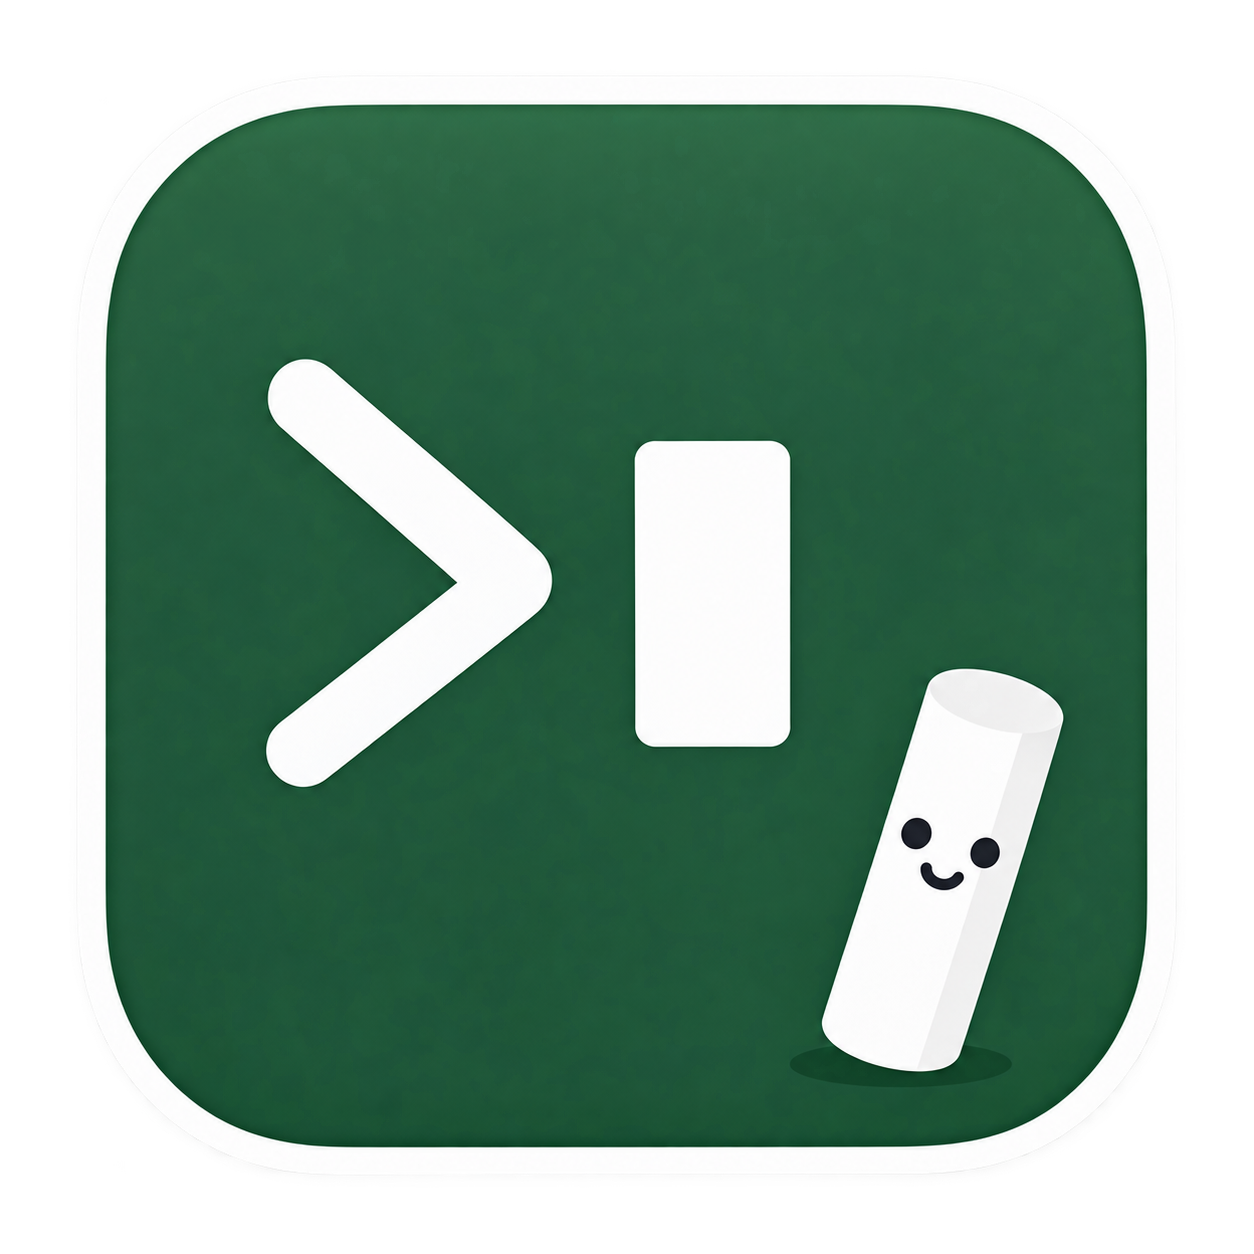
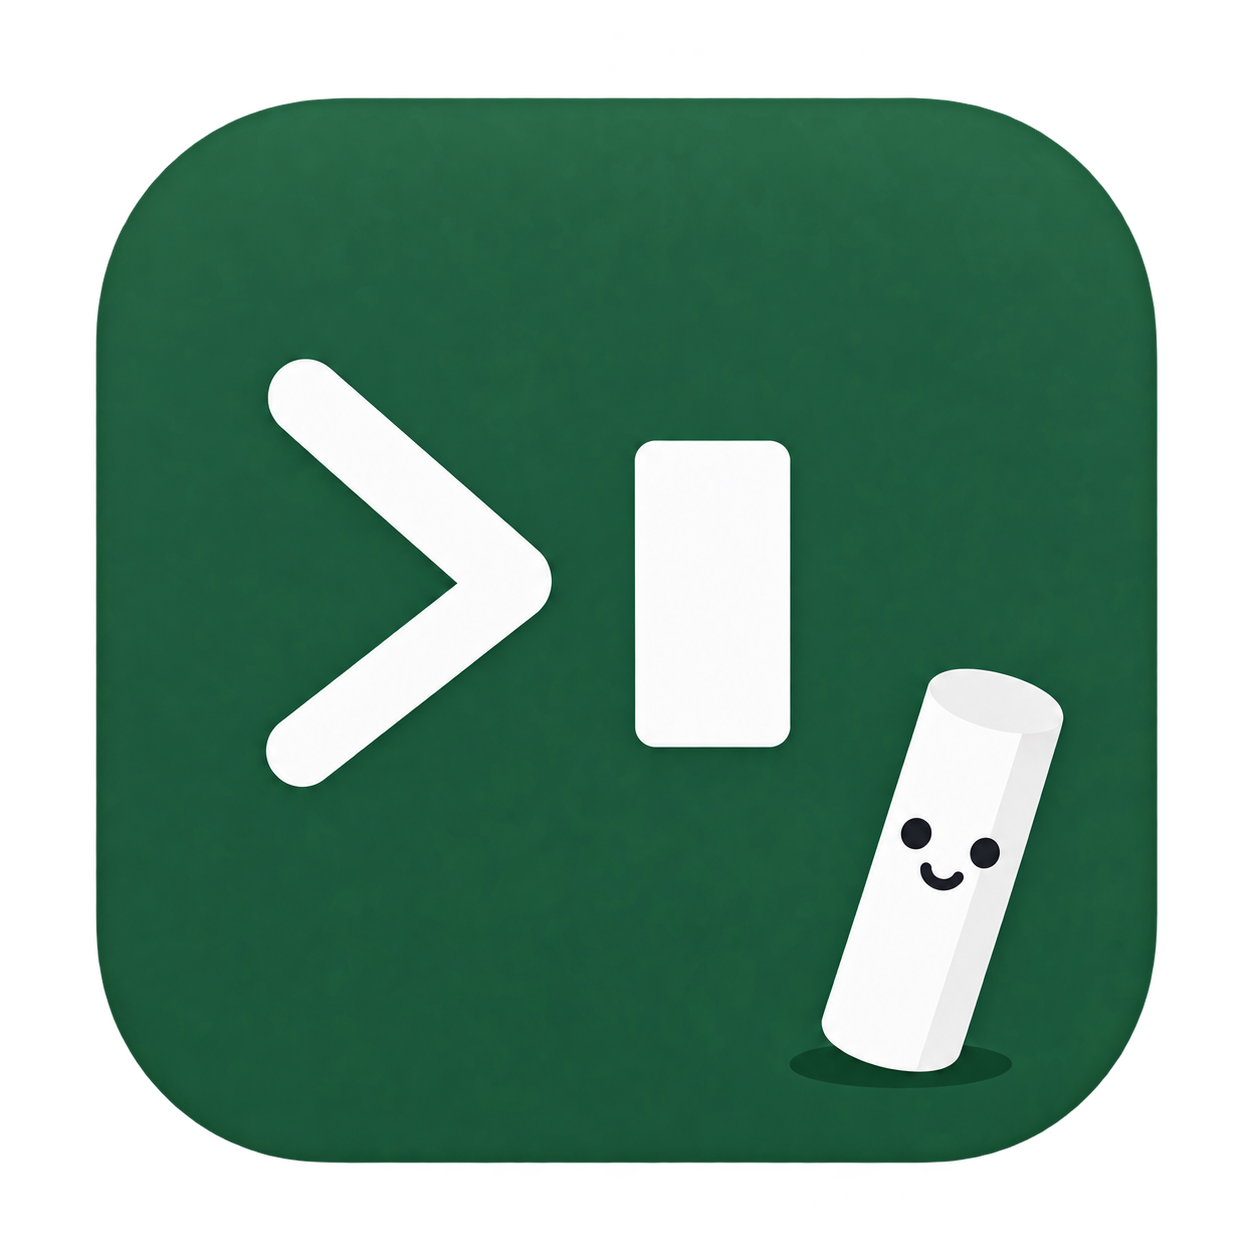
feat: atualizar o ícone do app com a arte sem borda branca
Substitui assets/kokuban-icon.png pela nova versão da arte do quadro-negro
enviada em 2026-09-15: mesmo desenho e 1254 x 1254 com alpha, sem a borda
branca de contorno irregular. O binário embute o PNG para o Dock do macOS
e a janela X11 do Linux; o lançador Linux usa o mesmo arquivo.

Validado: PNG RGBA 8 bits decodificado, cantos transparentes e dimensões
iguais às do ícone anterior; build e testes ficam a cargo do CI.

diff --git a/CHANGELOG.md b/CHANGELOG.md
@@ -7,6 +7,7 @@
 - Build release binaries with fat LTO and one codegen unit. Linux x86_64 PTY throughput rose 5–35% by workload and warmed glyph lookups up to 72% faster, while x86_64 full-frame CPU repaints became about 1–2% slower and clean release builds take longer; the [release profile report](docs/linux-evidence/2026-09-15-release-lto/README.md) lists every platform and control.
 - macOS: the PTY reader blocks in `poll` instead of sleeping 2 ms between scans, reads without holding the atlas and pane-tree locks, and decodes each wakeup under one lock. End-to-end throughput rose 20–393% by workload and idle wakeups fell from 93.8/s to 11.9/s on an Apple M4; the [paired report](docs/macos-evidence/2026-09-15-poll-reader/README.md) keeps A/A controls and limits.
 - Wait for PTY writability instead of sleeping 1 ms after each `EAGAIN`. Large pastes into a draining macOS program went from 0.71 to 23.07 MiB/s; cancellation with a full input queue is now observed within 10 ms. See the [write report](docs/macos-evidence/2026-09-15-pty-writable-wait/README.md).
+- Refresh the application icon: the same chalkboard artwork without the irregular white border, used for the macOS Dock and the Linux X11 window and launcher.
 
 ### Fixed
 

diff --git a/assets/README.md b/assets/README.md
@@ -1,8 +1,9 @@
 # Application icon
 
 `kokuban-icon.png` is the square 1254 × 1254 artwork supplied by the project
-maintainer on 2026-09-10, copied without changing its pixels, transparency, or
-proportions. It replaces the previous non-square icon.
+maintainer on 2026-09-15, copied without changing its pixels, transparency, or
+proportions. It keeps the chalkboard design and replaces the 2026-09-10 version,
+whose outer white border had irregular edges, with a clean transparent margin.
 
 The executable embeds this PNG. macOS uses it as the running application's Dock
 icon. Linux renders a smaller version for X11 and uses the stable application ID
